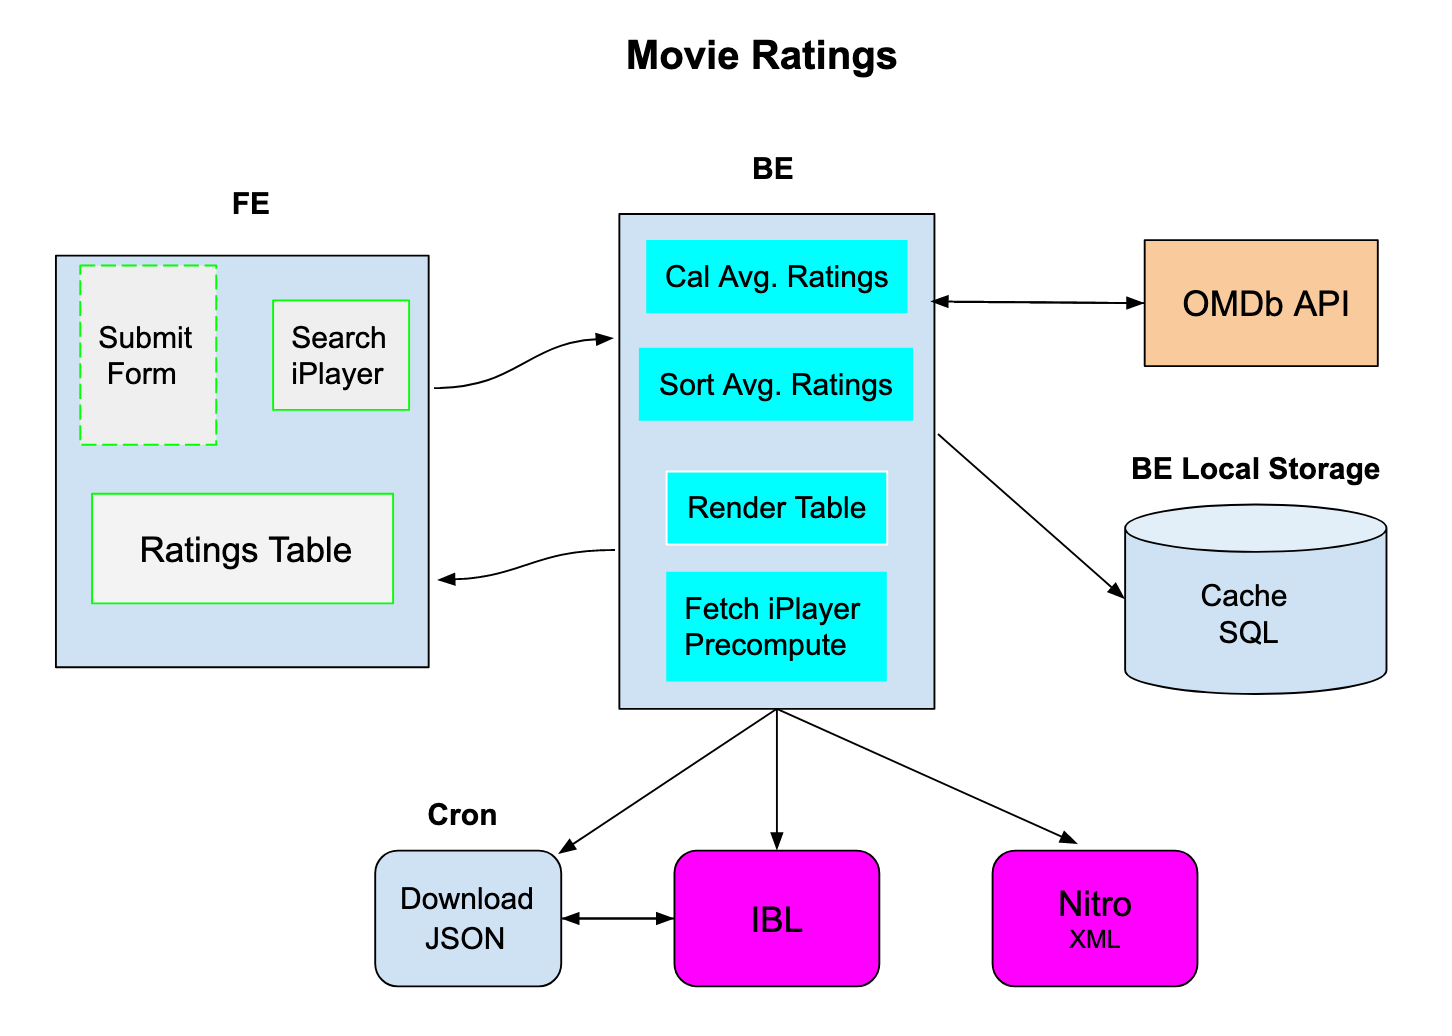
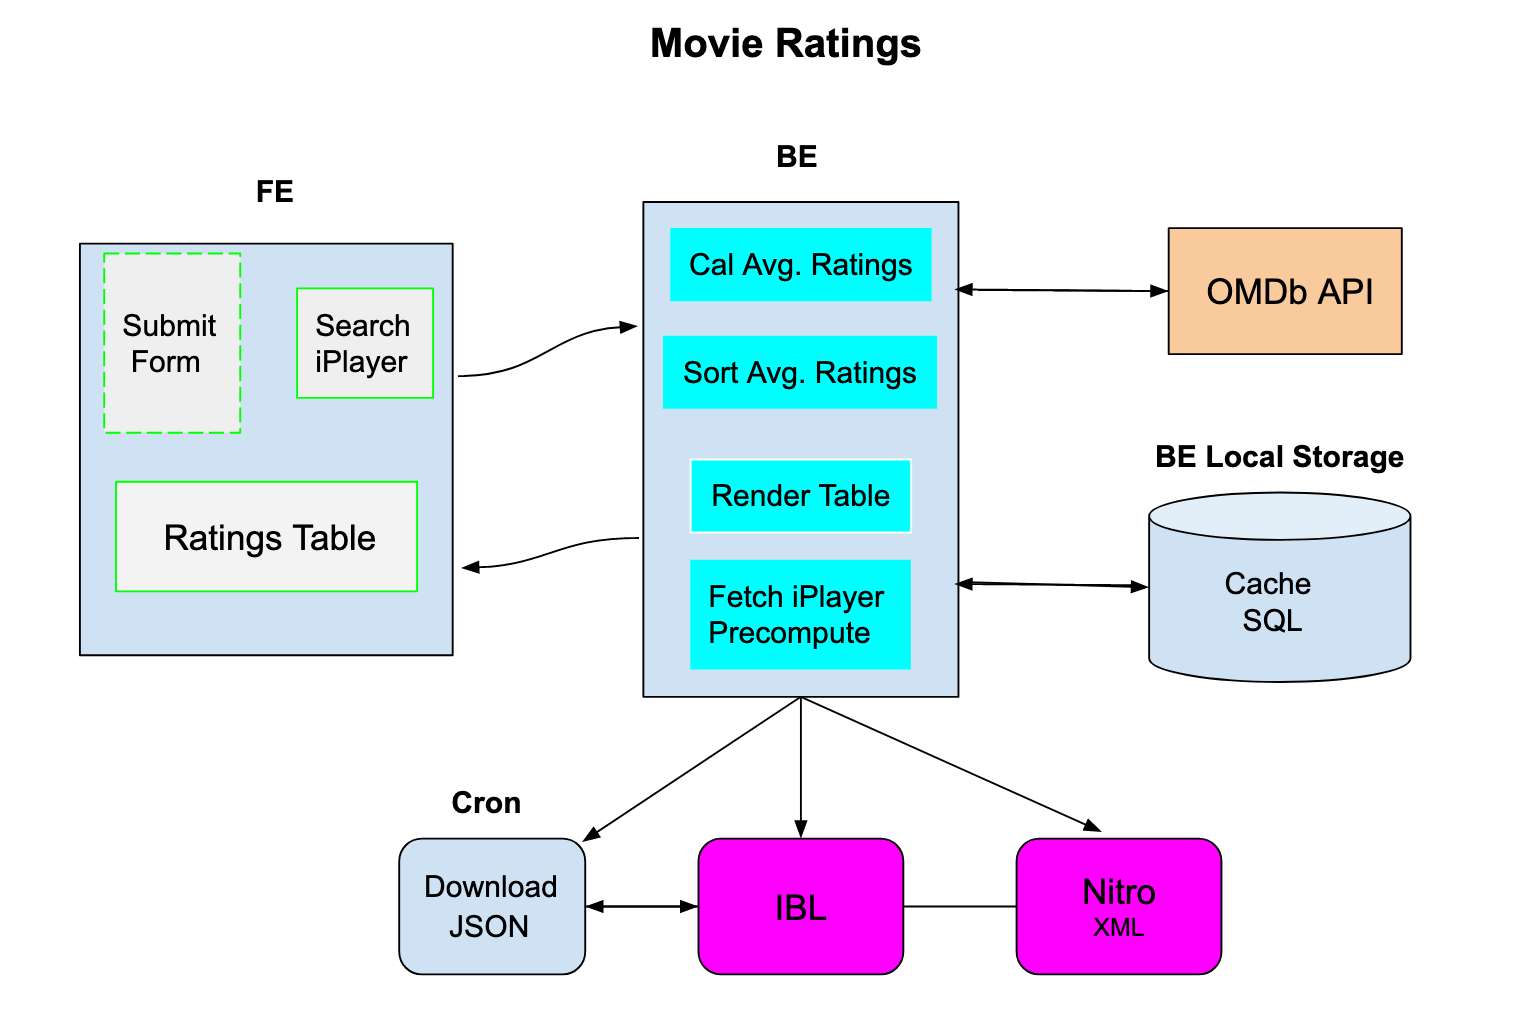
design

diff --git a/routes/fetch-api.js b/routes/fetch-api.js
@@ -5,9 +5,14 @@ const CryptoJS = require('crypto-js');
 const KEY_PATH = '.env.config';
 const API_URL = 'https://www.omdbapi.com/';
 
+let cache = {}; // limit to 20 movies, with time stamp
+let sqlClient;  // tables, today's iplayer ratings, recently searched movie ratings, timestamp
+
 const fetch = async (mts, lang) => {
   try {
     const apiKey = loadApiKey()[0];
+
+    //TDDO: fetch from cache first
     const urls = mts.map((mt) => `${API_URL}?t=${mt}&apikey=${apiKey}`);
 
     const allRes = await axios.all(urls.map((u) => axios.get(u,
@@ -17,6 +22,8 @@ const fetch = async (mts, lang) => {
           "Accept": "application/json",
         }
       })));
+
+    //write new values to cache
     const sortedMovies = sortByAvgRating(allRes, lang);
     return sortedMovies;
   } catch (e) {
